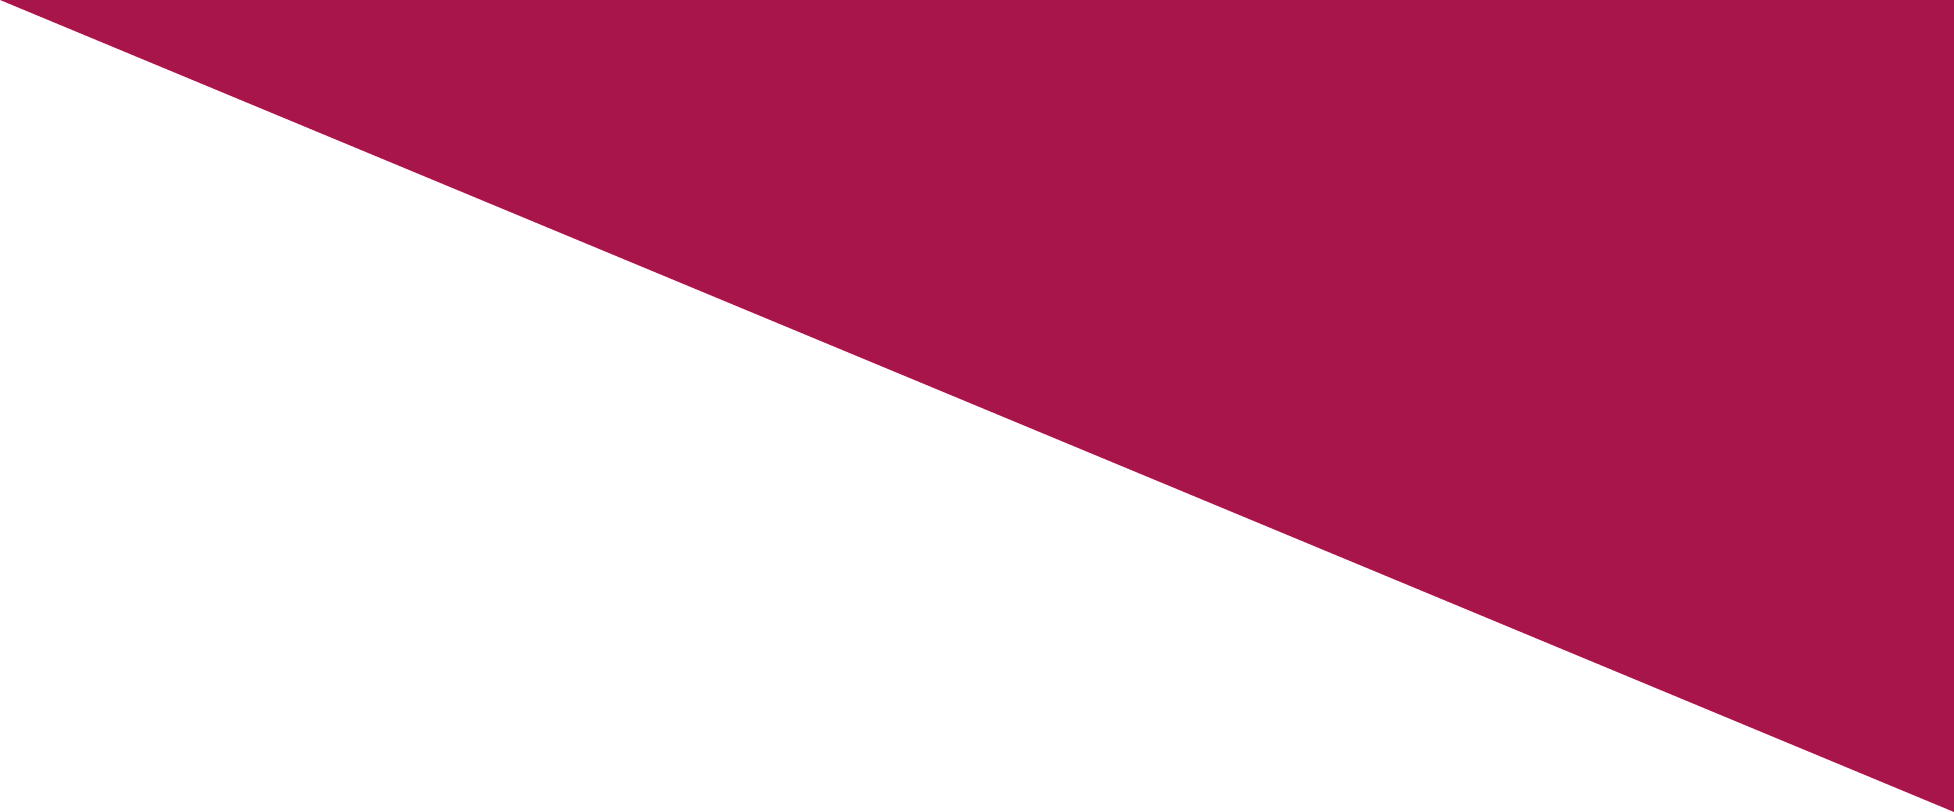
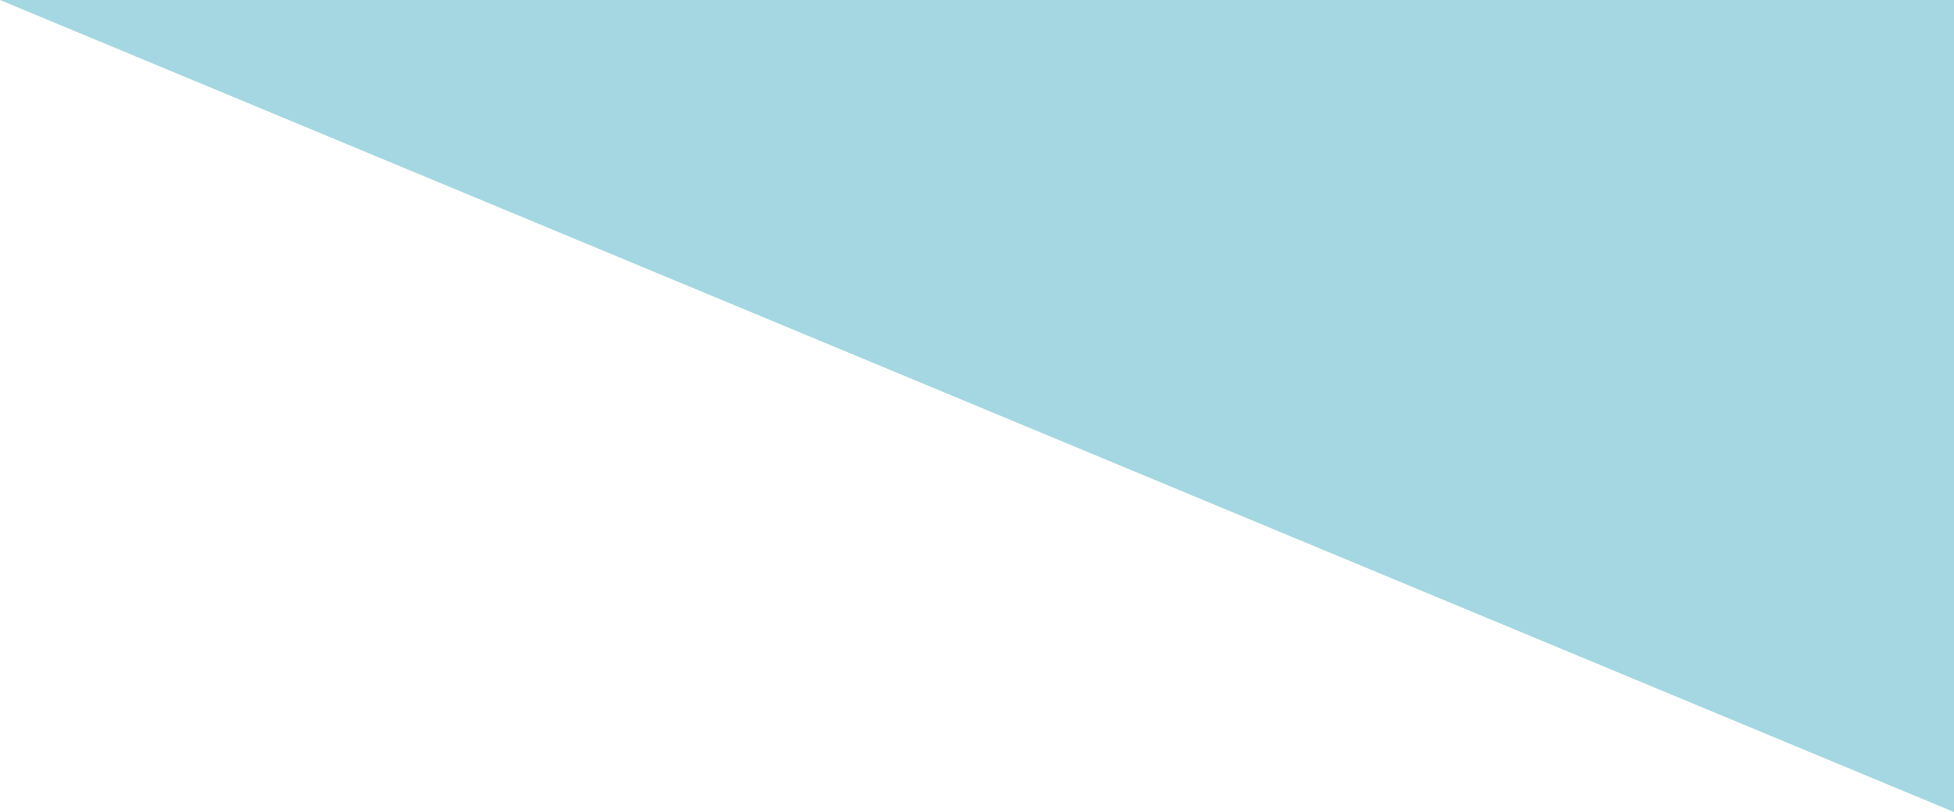
commit

diff --git a/index.html b/index.html
@@ -41,8 +41,7 @@
         </section>
         <section id="sobre-mim">
             <div id="img-avatar">
-                <img id="avatar" src="./assets/img/image 1.png" alt="">
-
+                <img id="avatar" src="./assets/img/img.png" alt="">
             </div>
             <div id="bio-avatar">
                 <h1>Sobre mim</h1>
@@ -65,10 +64,10 @@
                     <a target="_blank" href="https://majuks.github.io/WebHistory/"><img src="./assets/img/box.png" alt=""></a>
                 </div>
                 <div id="box">
-                    <a href=""><img src="./assets/img/em breve (1).png" alt=""></a>
+                    <a href=""><img src="./assets/img/em breve.png" alt=""></a>
                 </div>
                 <div id="box">
-                    <a href=""><img src="./assets/img/em breve (1).png" alt=""></a>
+                    <a href=""><img src="./assets/img/em breve.png" alt=""></a>
                 </div>
             </div>
             <div id="subtitle-projetos">
@@ -103,7 +102,7 @@
                     <img id="h7"  src="./assets/img/h7.png" alt="">
                 </div>
                 <div class="skill-box" id="habilidades">
-                    <img id="h8"  src="./assets/img/h8.png" alt="">
+                    <img id="h8"  src="./assets/img/h7.png" alt="">
                 </div>
             </div>
             <div id="text-habilidades">

diff --git a/assets/style.css b/assets/style.css
@@ -3,9 +3,9 @@
 
 :root{
     --white:#fff;
-    --light-pink:#FF2171;
-    --pink:#A8154A;
-    --dark-pink:#77002E;
+    --light-pink:#DAF1F9;
+    --pink:#A4D7E1;
+    --dark-pink:#A4D7E1;
     --light-bege:#FFFAD7;
     --bege:#FFE4A7;
     --dark-bege:#BAA370;
@@ -36,6 +36,7 @@ header{
     align-items: center;
     position: fixed;
     width: 100%;
+    border-bottom: 5px solid black;
 }
 header #ancho ul{
     font-family: var(--font-text);
@@ -50,7 +51,7 @@ header #ancho ul a{
     text-decoration: none;
 }
 header #logo{
-    font-family: var(--font-title);
+    font-family: #77002E;
     color: var(--dark-pink);
 }
 main{
@@ -85,12 +86,15 @@ main #inicio #bio-perfil #btn-perfil{
     padding: 10px;
     font-family: var(--font-text);
     margin: 10px 0px;
-    border-radius: 3px;
+    border-radius: 5px;
     text-align: center;
     transition: 0.5s;
+    border: 3px solid black;
+
 }
 main #inicio #bio-perfil #btn-perfil:hover{
     background-color: #8F7743;
+
 }
 main #inicio #bio-perfil #btn-perfil a{
     color: var(--white);
@@ -102,6 +106,7 @@ main #inicio #img-perfil img{
     min-width: 200px;
     width: 100%;
 }
+
 /* section sobre mim */
 main #sobre-mim{
     background-color: var(--pink);
@@ -296,6 +301,5 @@ footer #social-medias #social svg:hover{
     }
     main #projetos #box-projetos{
         gap: 10px;
-    }
     }
 }
